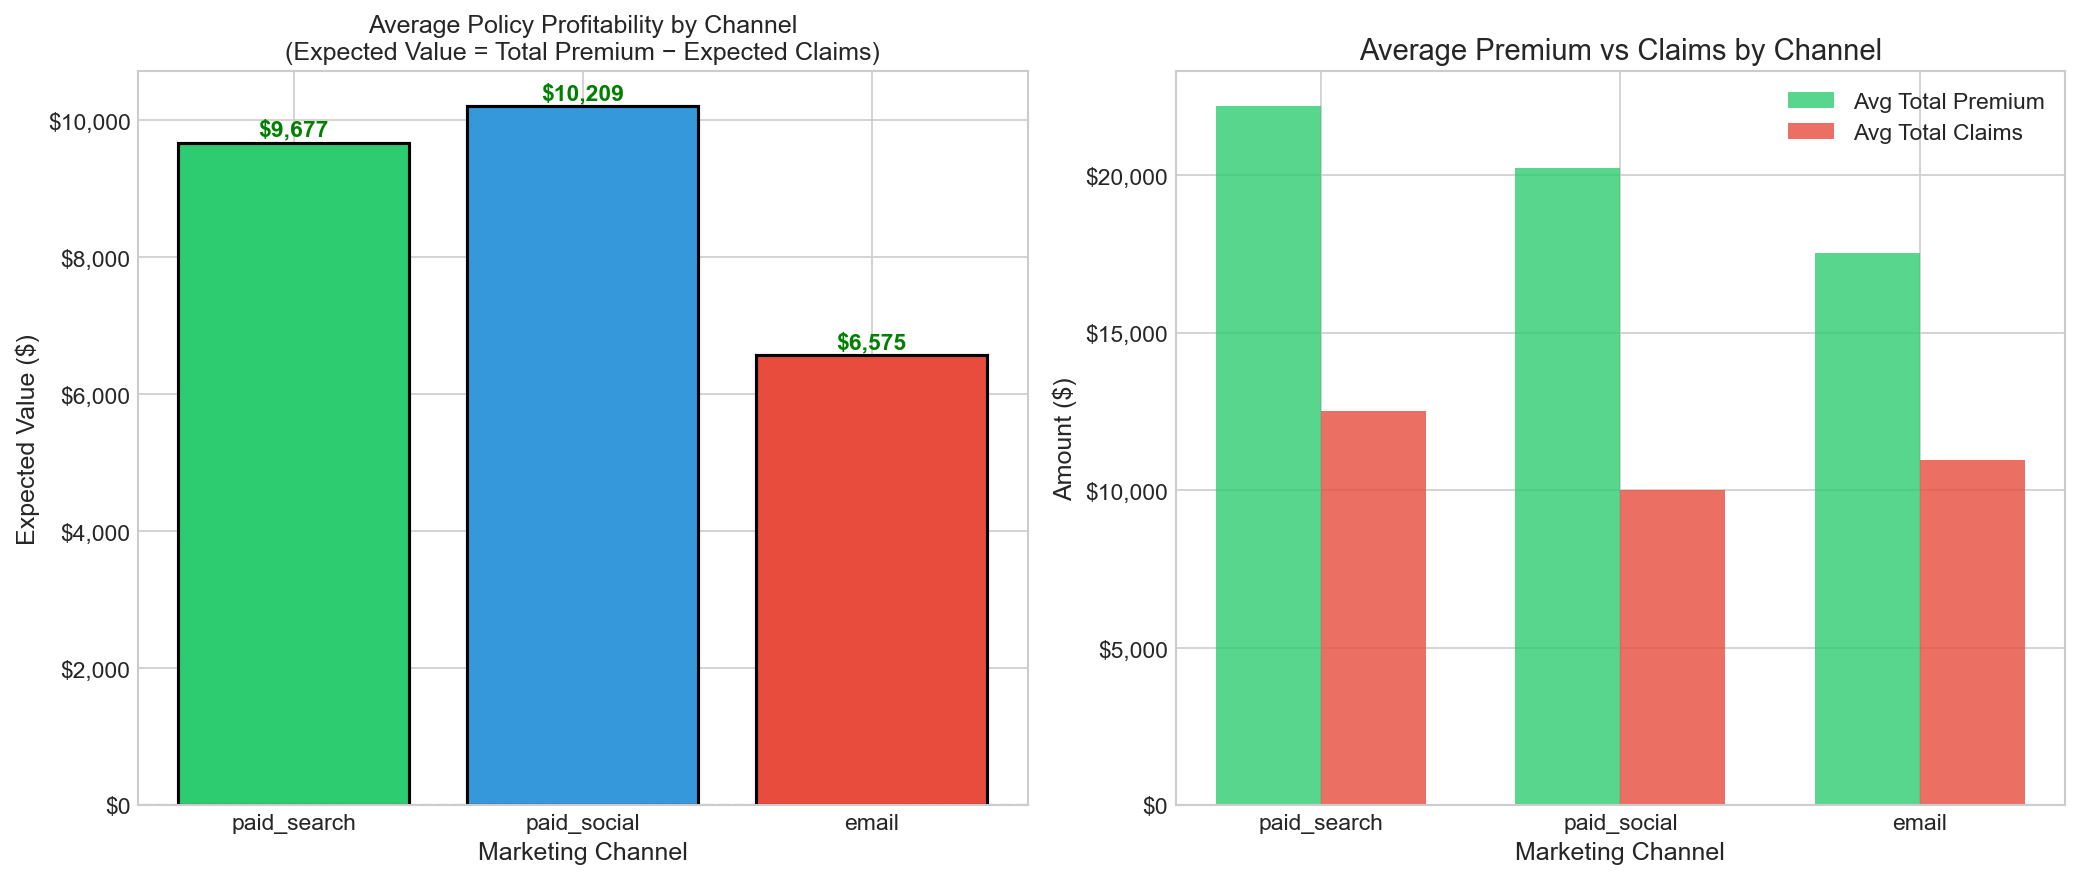
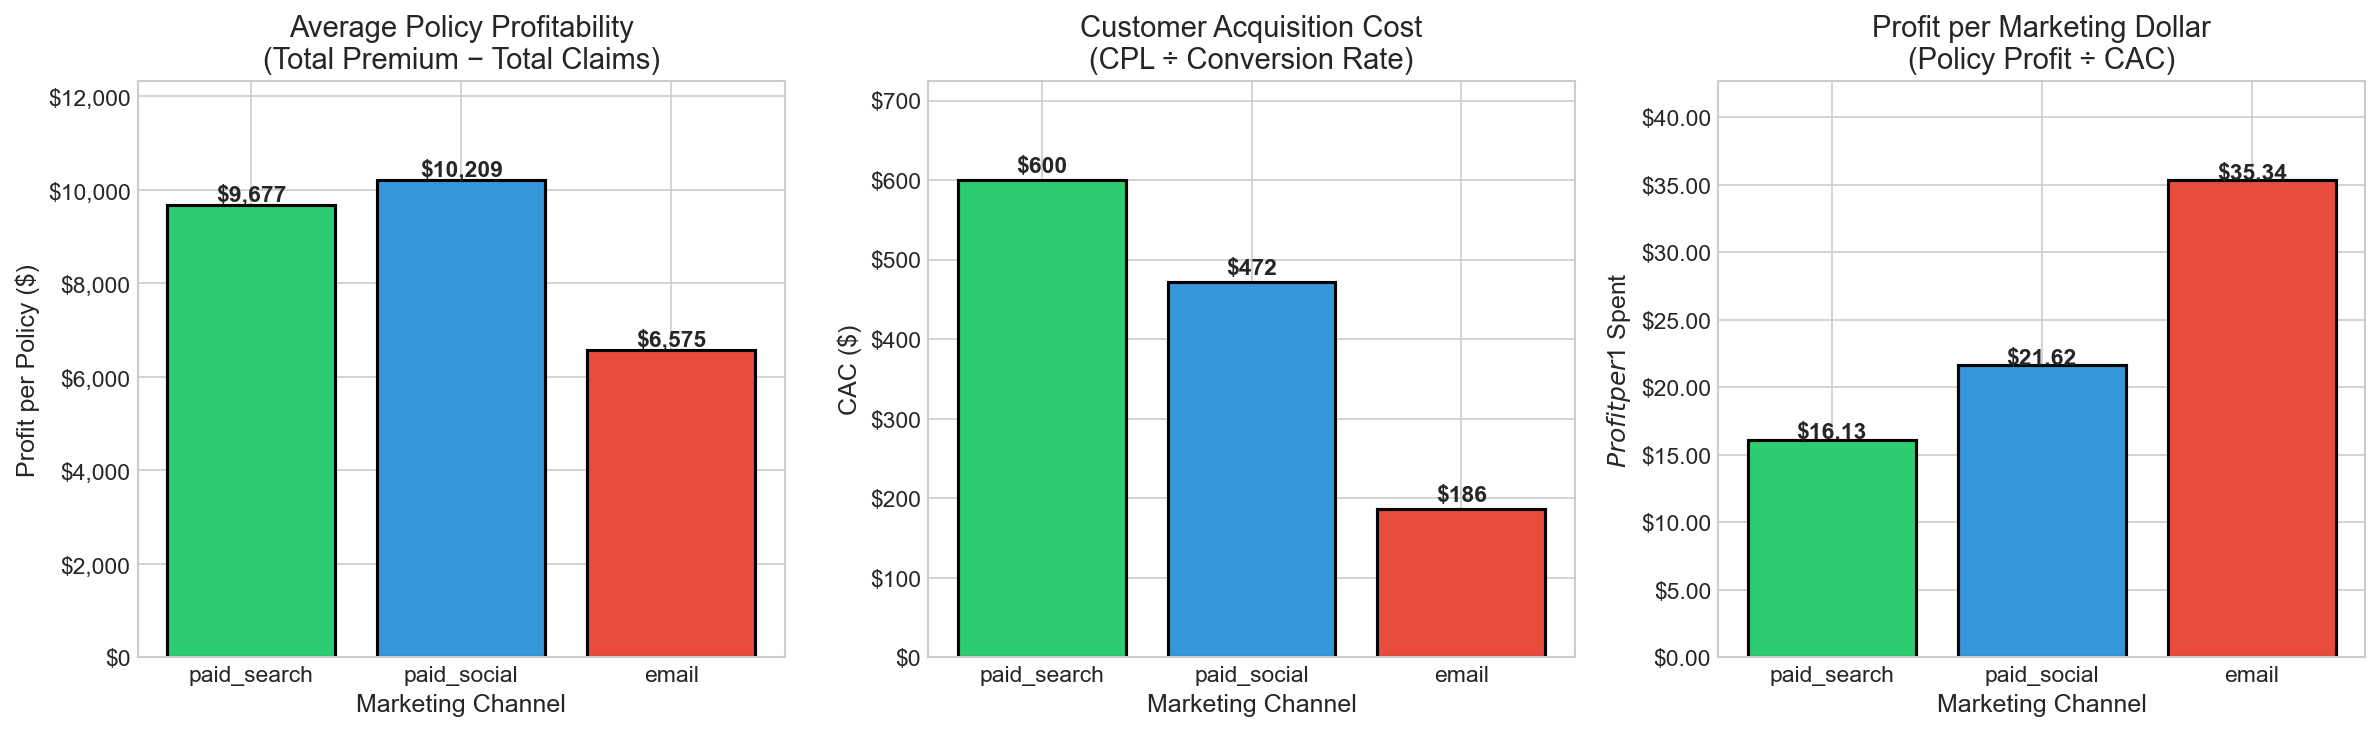
Added ROI chart and changed budget reco

diff --git a/notebooks/insurance_eda.py b/notebooks/insurance_eda.py
@@ -560,43 +560,59 @@ def analysis_6_policy_profitability(leads):
               f"${row['expected_value']:>9,.0f}")
     
     # Visualization
-    fig, axes = plt.subplots(1, 2, figsize=(14, 6))
+    # Visualization
+    fig, axes = plt.subplots(1, 3, figsize=(16, 5))
     
     channels = ['paid_search', 'paid_social', 'email']
     colors = [CHANNEL_COLORS[c] for c in channels]
     
-    # Expected value by channel
+    # CAC calculation
+    cpl_estimates = {'paid_search': 54, 'paid_social': 34, 'email': 8}
+    conv_rates = {'paid_search': 0.09, 'paid_social': 0.072, 'email': 0.043}
+    
+    cac_values = [cpl_estimates[c] / conv_rates[c] for c in channels]
     exp_values = [channel_value.loc[c, 'expected_value'] for c in channels]
+    roi_values = [(exp_values[i] / cac_values[i]) * 100 for i in range(len(channels))]
+    profit_per_dollar = [exp_values[i] / cac_values[i] for i in range(len(channels))]
+    
+    # Chart 1: Average Policy Profitability
     bars = axes[0].bar(channels, exp_values, color=colors, edgecolor='black', linewidth=1.5)
-    axes[0].set_title('Average Policy Profitability by Channel\n'
-                      '(Expected Value = Total Premium − Expected Claims)', fontsize=12)
-    axes[0].set_ylabel('Expected Value ($)')
+    axes[0].set_title('Average Policy Profitability\n(Total Premium − Total Claims)')
+    axes[0].set_ylabel('Profit per Policy ($)')
     axes[0].set_xlabel('Marketing Channel')
-    axes[0].axhline(y=0, color='red', linestyle='--', alpha=0.7)
+    axes[0].set_ylim(bottom=0)
     axes[0].yaxis.set_major_formatter(plt.FuncFormatter(lambda x, p: f'${x:,.0f}'))
     
     for bar, val in zip(bars, exp_values):
-        color = 'green' if val > 0 else 'red'
         axes[0].text(bar.get_x() + bar.get_width()/2, bar.get_height() + 100, 
-                    f'${val:,.0f}', ha='center', fontweight='bold', color=color)
+                    f'${val:,.0f}', ha='center', fontweight='bold')
+    axes[0].set_ylim(top=axes[0].get_ylim()[1] * 1.15)
     
-    # Stacked bar: Premium vs Claims by channel
-    premiums = [channel_value.loc[c, 'total_premium'] for c in channels]
-    claims = [channel_value.loc[c, 'total_claim_amount'] for c in channels]
-    
-    x = np.arange(len(channels))
-    width = 0.35
-    
-    bars1 = axes[1].bar(x - width/2, premiums, width, label='Avg Total Premium', color='#2ecc71', alpha=0.8)
-    bars2 = axes[1].bar(x + width/2, claims, width, label='Avg Total Claims', color='#e74c3c', alpha=0.8)
-    
-    axes[1].set_title('Average Premium vs Claims by Channel')
-    axes[1].set_ylabel('Amount ($)')
+    # Chart 2: Customer Acquisition Cost
+    bars = axes[1].bar(channels, cac_values, color=colors, edgecolor='black', linewidth=1.5)
+    axes[1].set_title('Customer Acquisition Cost\n(CPL ÷ Conversion Rate)')
+    axes[1].set_ylabel('CAC ($)')
     axes[1].set_xlabel('Marketing Channel')
-    axes[1].set_xticks(x)
-    axes[1].set_xticklabels(channels)
-    axes[1].legend()
+    axes[1].set_ylim(bottom=0)
     axes[1].yaxis.set_major_formatter(plt.FuncFormatter(lambda x, p: f'${x:,.0f}'))
+    
+    for bar, val in zip(bars, cac_values):
+        axes[1].text(bar.get_x() + bar.get_width()/2, bar.get_height() + 10, 
+                    f'${val:,.0f}', ha='center', fontweight='bold')
+    axes[1].set_ylim(top=axes[1].get_ylim()[1] * 1.15)
+    
+    # Chart 3: Profit per Marketing Dollar (ROI)
+    bars = axes[2].bar(channels, profit_per_dollar, color=colors, edgecolor='black', linewidth=1.5)
+    axes[2].set_title('Profit per Marketing Dollar\n(Policy Profit ÷ CAC)')
+    axes[2].set_ylabel('$ Profit per $1 Spent')
+    axes[2].set_xlabel('Marketing Channel')
+    axes[2].set_ylim(bottom=0)
+    axes[2].yaxis.set_major_formatter(plt.FuncFormatter(lambda x, p: f'${x:.2f}'))
+    
+    for bar, val in zip(bars, profit_per_dollar):
+        axes[2].text(bar.get_x() + bar.get_width()/2, bar.get_height() + 0.1, 
+                    f'${val:.2f}', ha='center', fontweight='bold')
+    axes[2].set_ylim(top=axes[2].get_ylim()[1] * 1.15)
     
     plt.tight_layout()
     plt.savefig('analysis_6_policy_profitability.png', dpi=150, bbox_inches='tight')
@@ -616,9 +632,9 @@ def analysis_6_policy_profitability(leads):
         print(f"  {channel}: CAC=${cac:.0f}, Exp.Value=${exp_val:,.0f}, "
               f"Net=${net_value:,.0f}, ROI={roi:.0f}%")
     
-    print("\n💡 INSIGHT: Despite higher CPL, paid_search delivers the highest profit")
-    print("   per policy. Email's low CPL is offset by poor policy economics,")
-    print("   making it potentially unprofitable on a profitability basis.")
+    print("\n💡 INSIGHT: Budget allocation should optimize profit per marketing dollar,")
+    print("   not profit per policy. Shift spend toward the channel with highest ROI")
+    print("   to maximize total profit from a fixed marketing budget.")
     
     return channel_value
 
